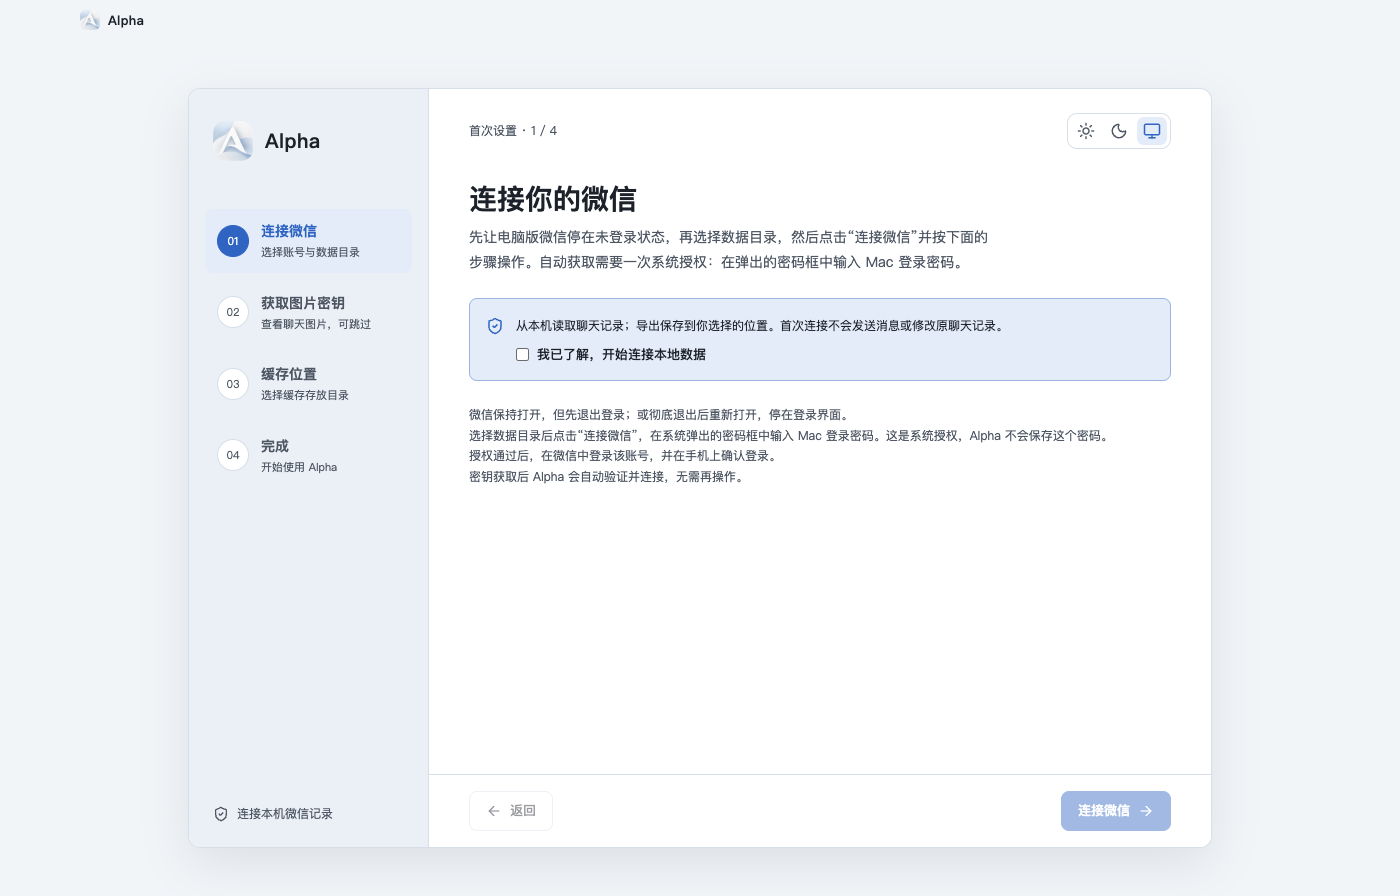
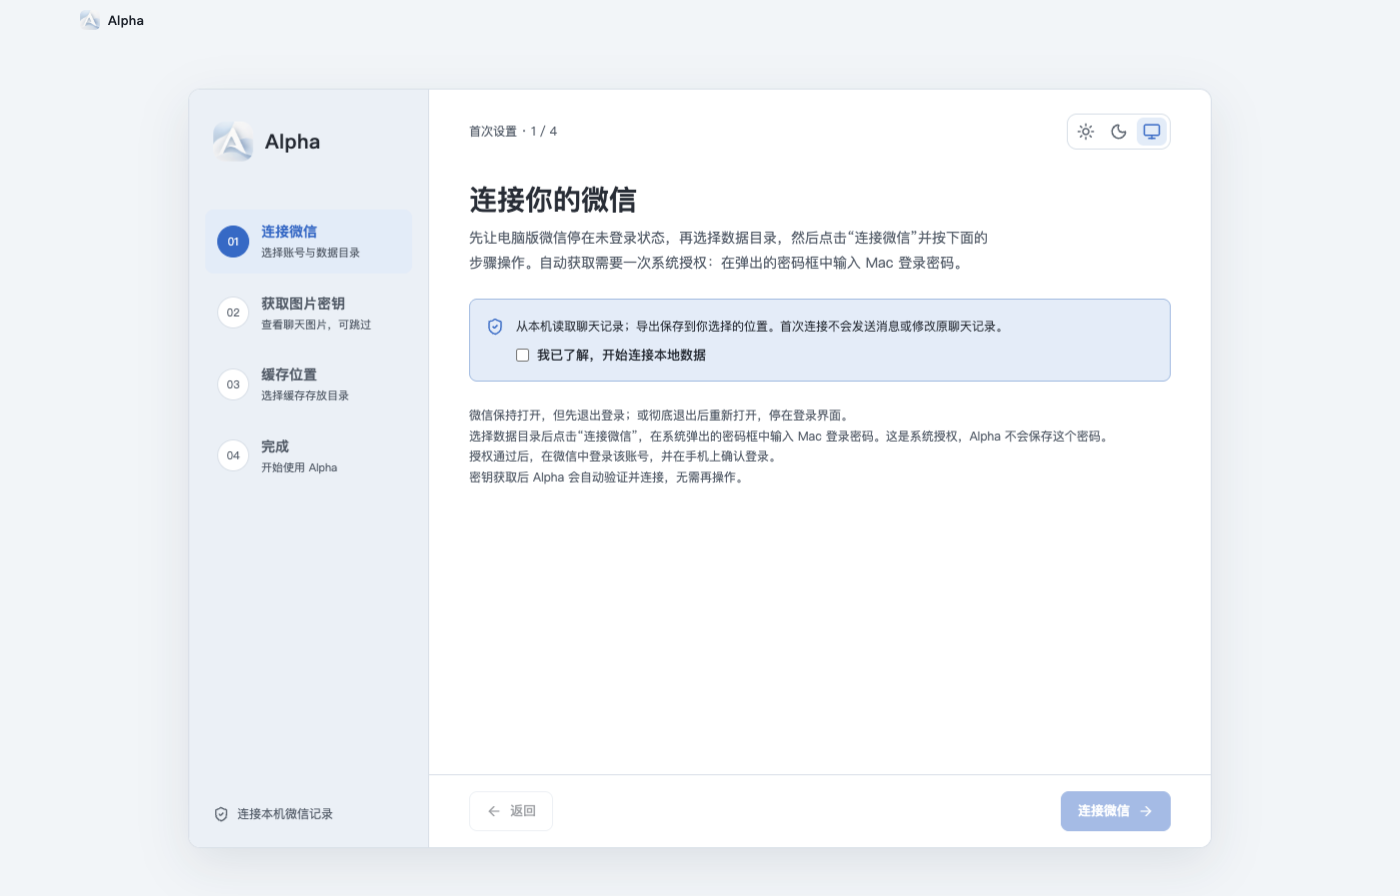
feat: add maintainer workflow and anti-recall boundary

diff --git a/docs/independent-backend.md b/docs/independent-backend.md
@@ -59,13 +59,13 @@ npm run start:independent -- --data-dir /absolute/project/.runtime/your-snapshot
 
 遥测的独立实现边界见 [`telemetry-recovery.md`](telemetry-recovery.md)。
 
-协议层当前实现 57/128 个请求分支，其余 71 个返回 `UNIMPLEMENTED`，清单见 [engine README](../packages/alpha-engine/README.md) 和源码 `SUPPORTED`。新增分支包括只读 `listGeneral` 群成员读取、群成员 CSV/JSON/HTML/XLSX 导出、有限 `getContactProfile` 档案读取（普通联系人存在性、共同群计数/列表，以及群成员数/唯一群主）、联系人 directory 的 friend/group 派生分类、联系人 CSV/JSON/VCF/HTML/XLSX 导出、不复制媒体的 JSON/Markdown/HTML/TXT/XLSX 和四种消息 DTO 派生会话导出、payments/revokes/calls/friend_requests 候选记录读取（好友申请仅为 local_type=37 + VerifyMsg/friend XML 的 partial/candidate 视图）、payments/friend_requests/revokes/calls 候选记录的 xlsx/csv/json 导出、内存导出任务状态/取消、独立 stateDir 的聊天导出计划 CRUD/CAS、bounded 后台 scheduler（到期触发、单次最多 16 个计划、重启最多补一条到期 run）及运行/准备记录持久化、年度统计基础报告、指定会话的关系基础统计、scope 1/2/3/4 bounded 聚合分析任务及 watch/cancel、显式数据源变化监控目标、只返回真实消息 DTO 的会话/账号媒体元数据浏览及 metadata-only JSON/CSV 导出、图片 key 的进程内手动配置/清除状态、静态高级组件不可用状态、本地持久化遥测同意与显式禁用 flush、只读消息防撤回状态查询（逐会话明确 `MESSAGE_ANTI_RECALL_WRITER_DISABLED`）、朋友圈防删除控制面的明确禁用状态（status/install/uninstall 均返回 `MOMENTS_ANTI_DELETE_WRITER_DISABLED`）以及使用独立 source token 返回已解码消息文本的 `getMessageSource`。聚合结果默认 10 分钟 TTL、最多 32 个任务、64 MiB 报告上限，进程重启不恢复；scope 5/6 和 NLP、moments、朋友圈等未有证据的领域保持不可用。图片 key 不验证 DAT 或提供媒体解码，`usable` 仍为 false。派生格式不声称与原 Alpha/native formatter 或第三方工具完全兼容。该 source token 与原 Alpha `media1_` 语义不兼容，raw/XML 和媒体文件仍保持不可用。高级组件状态只反映本地独立后端边界，不包含动态授权、设备密钥或 native ready 证明。可选的独立本机受控 HTTP/MCP 适配器映射其中的账号、会话、消息、搜索、联系人、群成员和 scope 1–4 聚合分析任务，并支持九种会话文件导出和媒体 JSON/CSV 元数据导出，详见 [`http-readonly-adapter-recovery.md`](http-readonly-adapter-recovery.md)。计划 runner 只接受一个已验证的 JSON/Markdown/HTML/TXT/XLSX 或派生格式和无媒体/筛选/头像/自定义 XLSX 列/语音选项，其他协议字段会在保存或执行时 fail-closed；为避免覆盖，每次产物写入 `outputDirectory/run-<runId>/`，Alpha 的 fixed/keep-copies/overwrite/incremental 细粒度目录冲突语义尚未复原。统计报告仅覆盖真实可读消息和有限字段。部分读取请求仍只支持有限参数。支持一个请求分支不代表其整个功能领域已完成，也不代表产品完成比例。
+协议层当前实现 58/128 个请求分支，其余 70 个返回 `UNIMPLEMENTED`，清单见 [engine README](../packages/alpha-engine/README.md) 和源码 `SUPPORTED`。新增分支包括只读 `listGeneral` 群成员读取、群成员 CSV/JSON/HTML/XLSX 导出、有限 `getContactProfile` 档案读取（普通联系人存在性、共同群计数/列表，以及群成员数/唯一群主）、联系人 directory 的 friend/group 派生分类、联系人 CSV/JSON/VCF/HTML/XLSX 导出、不复制媒体的 JSON/Markdown/HTML/TXT/XLSX 和四种消息 DTO 派生会话导出、payments/revokes/calls/friend_requests 候选记录读取（好友申请仅为 local_type=37 + VerifyMsg/friend XML 的 partial/candidate 视图）、payments/friend_requests/revokes/calls 候选记录的 xlsx/csv/json 导出、内存导出任务状态/取消、独立 stateDir 的聊天导出计划 CRUD/CAS、bounded 后台 scheduler（到期触发、单次最多 16 个计划、重启最多补一条到期 run）及运行/准备记录持久化、年度统计基础报告、指定会话的关系基础统计、scope 1/2/3/4 bounded 聚合分析任务及 watch/cancel、显式数据源变化监控目标、只返回真实消息 DTO 的会话/账号媒体元数据浏览及 metadata-only JSON/CSV 导出、图片 key 的进程内手动配置/清除状态、静态高级组件不可用状态、本地持久化遥测同意与显式禁用 flush、只读消息防撤回状态查询和防撤回控制面（status/install/uninstall/clear 均明确 `MESSAGE_ANTI_RECALL_WRITER_DISABLED`）、朋友圈防删除控制面的明确禁用状态（status/install/uninstall 均返回 `MOMENTS_ANTI_DELETE_WRITER_DISABLED`）以及使用独立 source token 返回已解码消息文本的 `getMessageSource`。聚合结果默认 10 分钟 TTL、最多 32 个任务、64 MiB 报告上限，进程重启不恢复；scope 5/6 和 NLP、moments、朋友圈等未有证据的领域保持不可用。图片 key 不验证 DAT 或提供媒体解码，`usable` 仍为 false。派生格式不声称与原 Alpha/native formatter 或第三方工具完全兼容。该 source token 与原 Alpha `media1_` 语义不兼容，raw/XML 和媒体文件仍保持不可用。高级组件状态只反映本地独立后端边界，不包含动态授权、设备密钥或 native ready 证明。可选的独立本机受控 HTTP/MCP 适配器映射其中的账号、会话、消息、搜索、联系人、群成员和 scope 1–4 聚合分析任务，并支持九种会话文件导出和媒体 JSON/CSV 元数据导出，详见 [`http-readonly-adapter-recovery.md`](http-readonly-adapter-recovery.md)。计划 runner 只接受一个已验证的 JSON/Markdown/HTML/TXT/XLSX 或派生格式和无媒体/筛选/头像/自定义 XLSX 列/语音选项，其他协议字段会在保存或执行时 fail-closed；为避免覆盖，每次产物写入 `outputDirectory/run-<runId>/`，Alpha 的 fixed/keep-copies/overwrite/incremental 细粒度目录冲突语义尚未复原。统计报告仅覆盖真实可读消息和有限字段。部分读取请求仍只支持有限参数。支持一个请求分支不代表其整个功能领域已完成，也不代表产品完成比例。
 
 独立后端 Hello 的 ready 只表示当前服务初始化成功。配置了有效且未锁定的数据源时会实际验证 SQLite；启用密码锁后重启只初始化锁和协议服务，数据访问必须先解锁。账号能力来自真实存在的库；数据源改变后再次查询会失败，不保留旧的就绪结果。
 
 ## 实测证据
 
-初始阶段合并测试 43/43 通过，历史汇总保留在 [independent-validation.json](independent-validation.json)；当前回归、聚合分析、图片 key 生命周期、独立计划存储测试、记录导出、遥测同意、防撤回/防删除状态和 57/128 协议范围见 [independent-validation-current.json](independent-validation-current.json)。加入加密导入后的阶段记录为 [encrypted-validation.json](encrypted-validation.json)。本轮搜索、导航及回归的最新结果见 [search-validation.json](search-validation.json)，各记录分别对应当时的实现范围。
+初始阶段合并测试 43/43 通过，历史汇总保留在 [independent-validation.json](independent-validation.json)；当前回归、聚合分析、图片 key 生命周期、独立计划存储测试、记录导出、遥测同意、防撤回/防删除状态和 58/128 协议范围见 [independent-validation-current.json](independent-validation-current.json)。加入加密导入后的阶段记录为 [encrypted-validation.json](encrypted-validation.json)。本轮搜索、导航及回归的最新结果见 [search-validation.json](search-validation.json)，各记录分别对应当时的实现范围。
 
 - [桌面运行 JSON](independent-run.json) 与 [聊天截图](independent-run.png)：原 UI、真实 IPC → Protobuf → Go → SQLite，应用锁前后读取，以及数据文件哈希不变。
 - [Go 编译与测试](../packages/alpha-data-bridge/build-validation.json)：arm64 原生程序、固定工具链、依赖锁和 schema/只读/分页边界。

diff --git a/docs/maintainer-playbook.md b/docs/maintainer-playbook.md
@@ -1,0 +1,45 @@
+# 维护者操作手册
+
+这份手册把恢复工程变成可重复维护的项目流程。它不扩大当前已经验证的功能范围。
+
+## 日常开发
+
+1. 从 `recovery/main` 或维护者自己的分支开始，确认 `git status` 干净。
+2. 运行 `nvm use`、`npm ci`；首次准备 Electron 和 esbuild 时运行 `npm run setup`。
+3. 修改 `src/`、`packages/` 或 `scripts/`，同时更新相应测试和文档。
+4. 对离线数据功能只使用 `npm run demo`、`npm run demo:encrypted` 或经授权的副本。默认启动器不会自动寻找个人微信目录。
+5. 提交前执行 [CONTRIBUTING.md](../CONTRIBUTING.md) 的检查清单。
+
+## 功能接手顺序
+
+维护优先级按 [MAINTENANCE.md](../MAINTENANCE.md) 的领域表和验收标准确定。一个请求分支的协议绑定、界面入口或静态字符串都不足以证明功能已恢复。新增读取功能必须有：
+
+- 已验证的请求/响应字段来源；
+- 合成 fixture 或明确授权的真实样本；
+- 成功、边界、损坏输入和数据源变化测试；
+- 对 UI、导出或 HTTP/MCP 影响的说明。
+
+缺少这些证据时，保留明确的 `UNIMPLEMENTED` 或 writer-disabled 状态，并在 `docs/source-gaps.md` 中记录需要的材料。
+
+## 发布流程
+
+在 macOS arm64 上按以下顺序运行：
+
+```sh
+npm run check:project
+npm run build:packaged
+npm run package:macos-app:from-build
+npm run package:macos-dmg
+npm run release:manifest
+npm run bundle:recovery
+```
+
+生成的 App 和 DMG 默认未签名、未公证，也不替代原生授权。发布前需要维护者自行完成代码签名、公证、更新服务和回滚验证；这些步骤当前没有被伪装成已完成。
+
+## 证据与回滚
+
+每次发布保留 `.runtime/release-manifest.json`、App manifest、恢复源码包 manifest 及 `docs/independent-validation-current.json`。若验证失败，先回到上一个本地 Git 提交，确认 `npm run test:smoke` 的原生错误和 `npm run test:independent` 的独立后端状态分别记录，再定位变更。不要用删除测试、隐藏菜单或返回空数据来恢复绿色状态。
+
+## 许可证与来源
+
+修改前阅读 [项目元数据](../provenance/project-metadata.json) 和 [原生来源记录](native-runtime-provenance.json)。原包恢复内容、第三方依赖和自有新增代码的许可边界必须分开记录；在维护者选择新代码许可证前，不要对外宣称整个仓库是某个开源许可证下的完整源码。

diff --git a/CONTRIBUTING.md b/CONTRIBUTING.md
@@ -1,0 +1,35 @@
+# 维护与贡献
+
+这个仓库是 Alpha 0.3.5 macOS arm64 安装包的个人维护工程。它包含从安装包恢复的应用层代码、保留来源的原生运行时，以及独立实现的可维护后端。上游发行仓库没有发布完整应用源码或明确的开源许可证，因此提交不能把恢复代码重新标记为上游开源代码。
+
+## 开始前
+
+1. 使用 `.nvmrc` 指定的 Node.js 24.21.0，并运行 `npm ci`。
+2. 阅读 [项目维护元数据](provenance/project-metadata.json)、[维护范围](MAINTENANCE.md) 和 [缺口清单](docs/source-gaps.md)。
+3. 只使用合成 fixture 或已明确授权的测试副本。不要把个人微信数据、密钥、模型凭据或运行时状态提交到仓库。
+
+## 修改边界
+
+- `src/`、`packages/`、`scripts/` 和测试是可维护源码；修改后通过对应构建和测试验证。
+- `vendor/runtime/` 是原包二进制来源副本，只能在有证据且能更新 provenance、哈希和许可记录时变更。
+- `dist/`、`build/`、`workers/agent/dist/` 和 `.runtime/` 是生成目录，不手工编辑或提交。
+- 不用空列表、固定成功值或猜测 SQL 冒充尚未取得 schema/fixture 的功能。未实现能力必须继续返回明确的错误状态。
+
+## 提交前检查
+
+```sh
+npm run check:project
+npm run check:maintainability
+npm test
+npm run test:independent
+npm run test:smoke
+npm run verify:protocol
+npm run verify:vendor
+git diff --check
+```
+
+如果只修改某一层，也要运行该层的针对性测试，并在提交说明中记录未运行的检查及原因。原包 smoke 的 UI 成功不等于原生 backend ready；请同时记录 `docs/local-run.json` 中的实际 backend 状态。
+
+## 提交说明
+
+提交应说明：变更目标、证据来源、测试命令、未恢复的边界，以及是否改变了原包文件或许可证边界。涉及新功能时，先在 `MAINTENANCE.md` 的对应行补充验收标准，再实现代码。

diff --git a/SECURITY.md b/SECURITY.md
@@ -1,0 +1,20 @@
+# 安全问题处理
+
+这是个人维护中的恢复工程，当前没有公开的安全邮箱、漏洞赏金或远程服务支持。不要在公开 issue、聊天或补丁中提交真实微信数据库、数据库密钥、图片密钥、模型凭据、授权令牌或原包私有状态。
+
+## 报告方式
+
+在本地维护时，把报告保存到受控的私有位置，并至少记录：
+
+- 受影响的提交、平台和 Node/Electron 版本；
+- 最小的合成 fixture 或可重现步骤；
+- 实际错误码、日志范围和是否涉及写入；
+- 是否能在隔离启动器中复现。
+
+如果未来建立公开远端，再把本文件改成该远端认可的私密报告入口，并同步维护元数据。当前不要假设 GitHub issue、原作者的发行仓库或 Alpha 的授权服务会接收本项目的安全报告。
+
+## 安全边界
+
+- 原包 native runtime 的签名、完整性、许可和授权校验保持原样；恢复工程不通过关闭校验来“修复”启动问题。
+- 独立后端默认只读、离线、fail-closed；消息写入、防撤回 writer、防删除 writer、自动取钥和外部模型连接必须有单独证据后才能启用。
+- 发现明文、密钥或个人数据进入源码、日志、测试报告或构建包时，应立即删除泄露内容并轮换相关凭据，再继续开发。

diff --git a/CHANGELOG.md b/CHANGELOG.md
@@ -1,0 +1,13 @@
+# 变更记录
+
+## 0.3.5-recovery — 2026-11-01
+
+- 建立可编辑的 Electron 应用层、协议模块、独立只读数据桥接和快照导入工程。
+- 接通离线微信 v4 数据读取、搜索、定位、联系人/群成员查询、导出、分析、计划任务、应用锁和受控本机 HTTP/MCP。
+- 保留原包 native runtime 的来源、签名、哈希和许可证边界；原生二进制没有重新编译。
+- 增加构建、隔离 smoke、协议、vendor、维护性和恢复源码包检查。
+- 明确记录 58/128 协议分支已实现，完整功能 parity 尚未达到；详见 [当前验证](docs/independent-validation-current.json) 和 [缺口清单](docs/source-gaps.md)。
+
+## 后续版本
+
+后续版本应先更新 `provenance/project-metadata.json`、本文件和 [维护范围](MAINTENANCE.md)，再提交可验证的代码与测试。未经证据支持的朋友圈、收藏、媒体解密、写入、自动取钥和云服务能力保持未实现状态。
